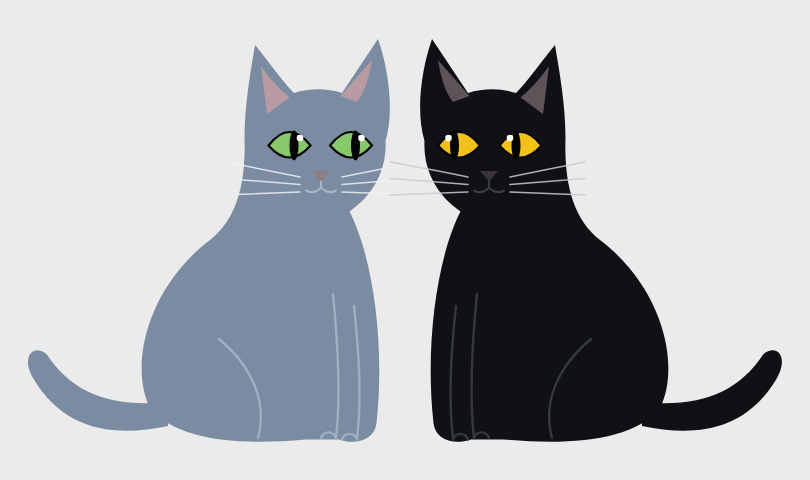
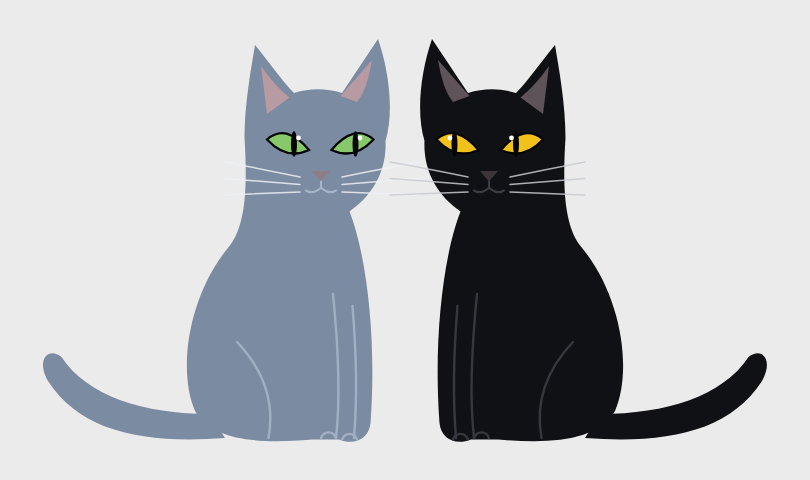
Brand: realistic cats v2 — sharper eyes, slimmer bodies
Claude-Session: https://claude.ai/code/session_01GwVbHwNgN6Hf5Mb3SaWcBY

diff --git a/org/brand/cats_real.py b/org/brand/cats_real.py
@@ -2,23 +2,25 @@
 def cat(fur, line, inner, iris, nose, whisker, look=3):
     body = ('<path d="M163 92 C163 70 167 48 170 30 C180 42 188 54 196 62 Q212 57 228 62 '
             'C236 50 244 38 252 26 C259 46 263 74 257 94 C258 114 248 131 233 141 '
-            'C248 170 257 228 251 282 C250 293 238 297 226 293 L204 293 '
-            'C160 297 118 294 100 272 C86 244 98 192 140 160 C158 146 164 122 163 92 Z" fill="%s"/>' % fur)
-    tail = ('<path d="M112 284 C74 292 42 286 22 252 C14 238 22 229 31 236 '
-            'C48 262 74 272 112 268 Z" fill="%s"/>' % fur)
+            'C245 172 251 228 247 282 C246 293 236 297 226 293 L208 293 '
+            'C172 296 142 294 130 274 C118 246 126 196 153 164 C164 150 165 124 163 92 Z" fill="%s"/>' % fur)
+    tail = ('<path d="M150 292 C96 296 54 288 32 254 C24 240 32 231 41 238 '
+            'C58 264 96 276 140 276 Z" fill="%s"/>' % fur)
     ears = ('<path d="M174 44 C181 54 187 60 193 65 L178 76 Z" fill="%s"/>'
             '<path d="M248 40 C246 52 243 62 238 68 L227 64 Z" fill="%s"/>' % (inner, inner))
     contours = ('<g fill="none" stroke="%s" stroke-width="1.6" stroke-linecap="round" opacity="0.9">'
                 '<path d="M222 196 C226 236 227 266 224 292"/>'
-                '<path d="M236 204 C240 240 241 268 238 292"/>'
-                '<path d="M146 226 C170 246 178 270 172 292"/>'
+                '<path d="M235 204 C238 240 238 268 236 292"/>'
+                '<path d="M158 228 C177 248 183 270 179 292"/>'
                 '<path d="M224 292 c-2 -5 -8 -5 -10 0 M238 293 c-2 -5 -8 -5 -10 0"/>'
                 '</g>' % line)
     eyes = ''
-    for ex in (193, 234):
-        eyes += ('<path d="M%d 97 Q%d 79 %d 97 Q%d 113 %d 97 Z" fill="%s" stroke="#050505" stroke-width="1.4"/>' % (ex-14, ex, ex+14, ex, ex-14, iris))
-        eyes += '<ellipse cx="%d" cy="97" rx="3" ry="10" fill="#050505"/>' % (ex+look)
-        eyes += '<circle cx="%d" cy="92" r="2.2" fill="#fff"/>' % (ex+look+4)
+    for ex, d in ((193, -1), (234, 1)):
+        # sharp almond, outer corner raised
+        o, i = ex + d*15, ex - d*13
+        eyes += ('<path d="M%d 93 Q%d 82 %d 100 Q%d 107 %d 93 Z" fill="%s" stroke="#050505" stroke-width="1.5" stroke-linejoin="miter"/>' % (o, ex + d*2, i, ex + d*2, o, iris))
+        eyes += '<ellipse cx="%d" cy="96" rx="2" ry="8.5" fill="#050505"/>' % (ex+look)
+        eyes += '<circle cx="%d" cy="92" r="1.6" fill="#fff"/>' % (ex+look+3)
     face = ('<path d="M208 114 h12 l-6 7 z" fill="%s"/>'
             '<path d="M214 121 v4 M214 125 q-5 5 -10 2 M214 125 q5 5 10 2" fill="none" stroke="%s" stroke-width="1.4" stroke-linecap="round"/>' % (nose, line))
     wh = '<g stroke="%s" stroke-width="1" stroke-linecap="round" fill="none" opacity="0.85">' % whisker
